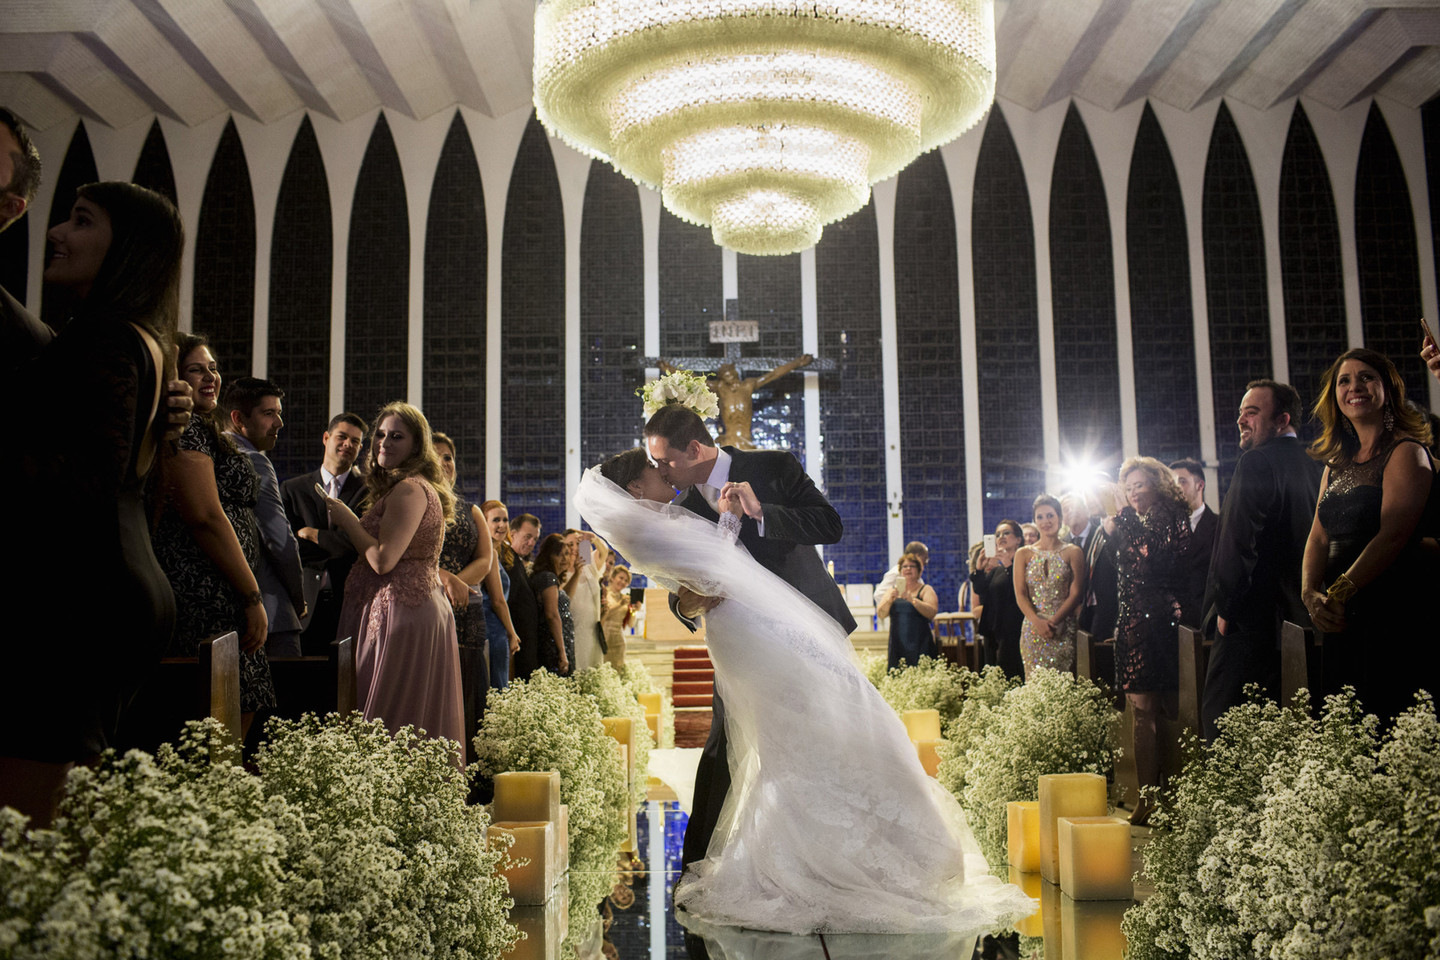
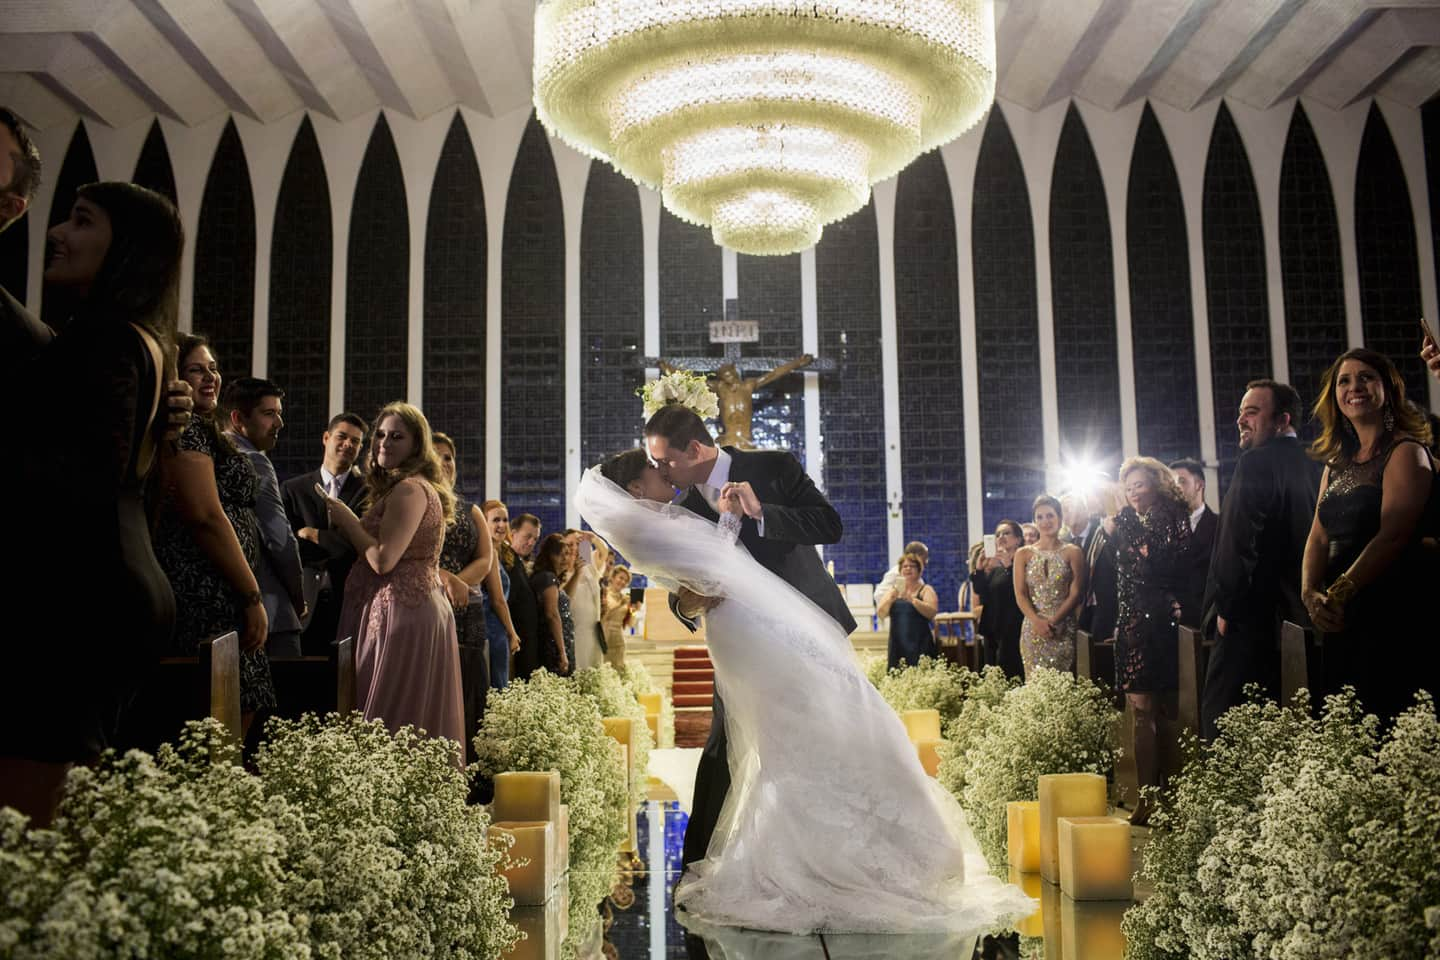
update

diff --git a/index.html b/index.html
@@ -9,7 +9,7 @@
   <body>
   <main>
     <section class="main">
-      <img src="dist/super-medium-medium-.jpg" alt="super">
+      <img src="images/super.jpg" alt="super">
     </section>
     <section class="gallery">
       <article class="container">
